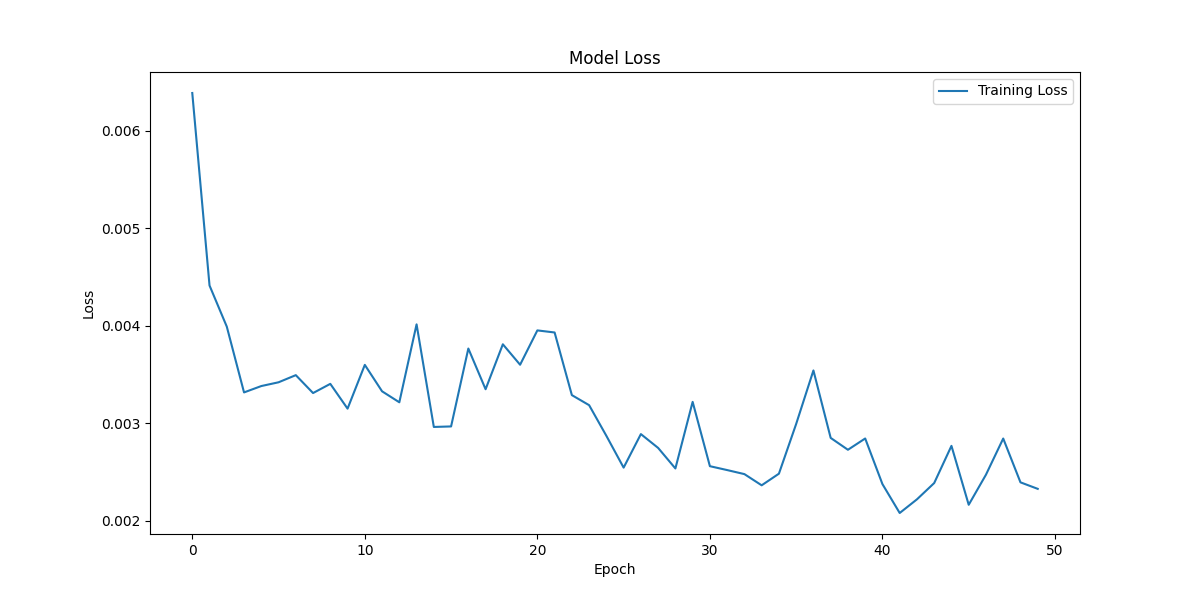
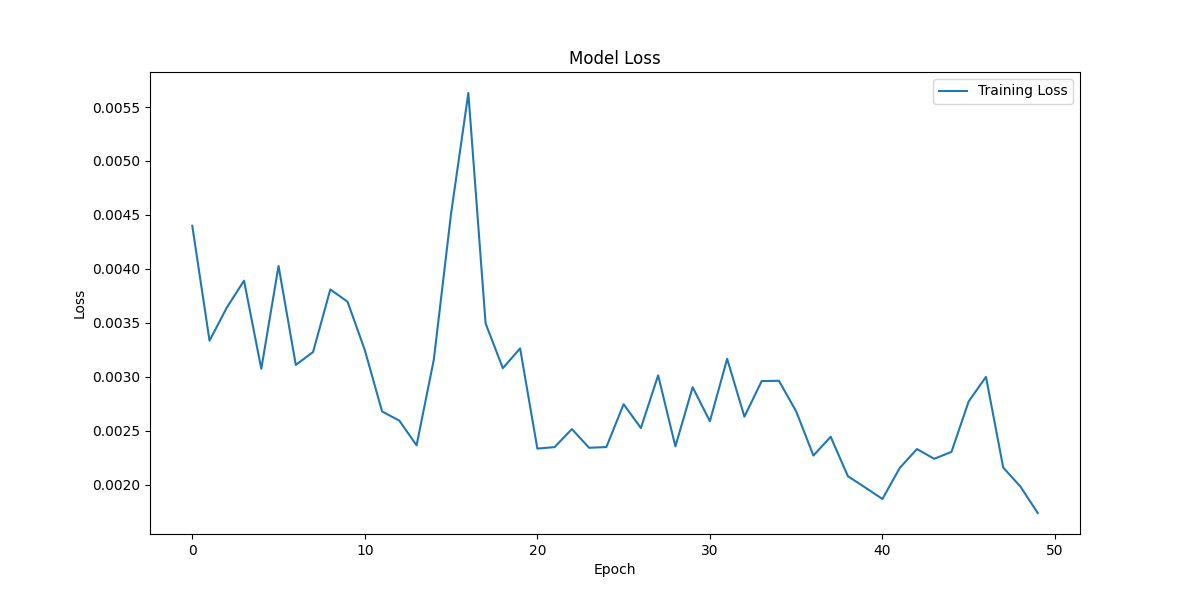
Use ensemble approach to enhance prediction accuracy

diff --git a/main.py b/main.py
@@ -1,5 +1,6 @@
 # main.py
 from datetime import datetime
+import numpy as np
 import os
 import sys
 import torch
@@ -8,21 +9,24 @@ from load_and_prepare_data import load_and_prepare_data
 from load_or_create_model import load_or_create_model
 from plot_prediction import plot_prediction
 from predict_future import predict_future
-from save_model import save_model
+# from save_model import save_model
 from train_model import train_model
 
 def main(file_path, model_path):
     device = torch.device("cuda" if torch.cuda.is_available() else "cpu")
     time_steps = 12
 
-    full_df, training_set, prediction_set = load_and_prepare_data(file_path, time_steps, "2023-12-31")
-    model = load_or_create_model(model_path, device, training_set)
-
-    train_model(model, training_set, device, 0.2, 32, 50, 1)
-    train_model(model, training_set, device, 0.2, 32, 50, 2) # Resample training/testing data before 2023 for the next 50 epochs to predict more accurately
-    save_model(model, training_set.scaler(), model_path)
-
-    predictions = predict_future(model, prediction_set, device)
+    full_df, training_set, prediction_set = load_and_prepare_data(file_path, time_steps, "2023-12-31") # Change the date to the last date of training data
+    
+    predictions = []
+    n_models = 10
+    for _ in range(n_models):
+        model = load_or_create_model(model_path, device, training_set)
+        train_model(model, training_set, device, 0.2, 32, 50, 1)
+        train_model(model, training_set, device, 0.2, 32, 50, 2) # Resample training/testing data before 2023 for the next 50 epochs to predict more accurately
+        # save_model(model, training_set.scaler(), model_path) no need to save the model since training is fast
+        predictions.append(predict_future(model, prediction_set, device))
+    predictions = np.mean(predictions, axis=0)
     plot_prediction(full_df, predictions)
 
 if __name__ == "__main__":

diff --git a/plot_prediction.py b/plot_prediction.py
@@ -1,5 +1,6 @@
 # plot_prediction.py
 import matplotlib.pyplot as plt
+import numpy as np
 import pandas as pd
 
 def plot_prediction(full_df, predictions):
@@ -14,3 +15,7 @@ def plot_prediction(full_df, predictions):
     plt.legend()
     plt.savefig("prediction_plot.png")
     plt.close()
+
+    historical_data = full_df["Federal Funds Rate"].values[-len(predictions):]
+    errors_ratio = np.abs(predictions - historical_data) / historical_data
+    print(f"Mean Error Ratio: {np.mean(errors_ratio * 100):.2f}%")

diff --git a/predict_future.py b/predict_future.py
@@ -14,6 +14,6 @@ def predict_future(model, prediction_set, device):
             pred_value = pred.cpu().numpy()[0, 0]
             predictions.append(pred_value)
 
-    predictions = prediction_set.scaler_y.inverse_transform(np.array(predictions).reshape(-1, 1))
+    predictions = prediction_set.scaler_y.inverse_transform(np.array(predictions).reshape(-1, 1)).flatten()
     
-    return predictions.flatten()
+    return predictions

diff --git a/README.md b/README.md
@@ -54,10 +54,7 @@ To run this project locally, follow these steps:
 2. **Use csv data to train the model and make prediction**:
    - Example: `python main.py fed_rate_data_20250319.csv`
 
-3. **Use pretrained model**
-   - Put the model file `model.pt` in the project folder and run the python script.
-
-4. **Visualize results**:
+3. **Visualize results**:
    - Comparison between prediction and historical data as well as the training loss plot is autogenerated as png file.
 
 ## Methodology
